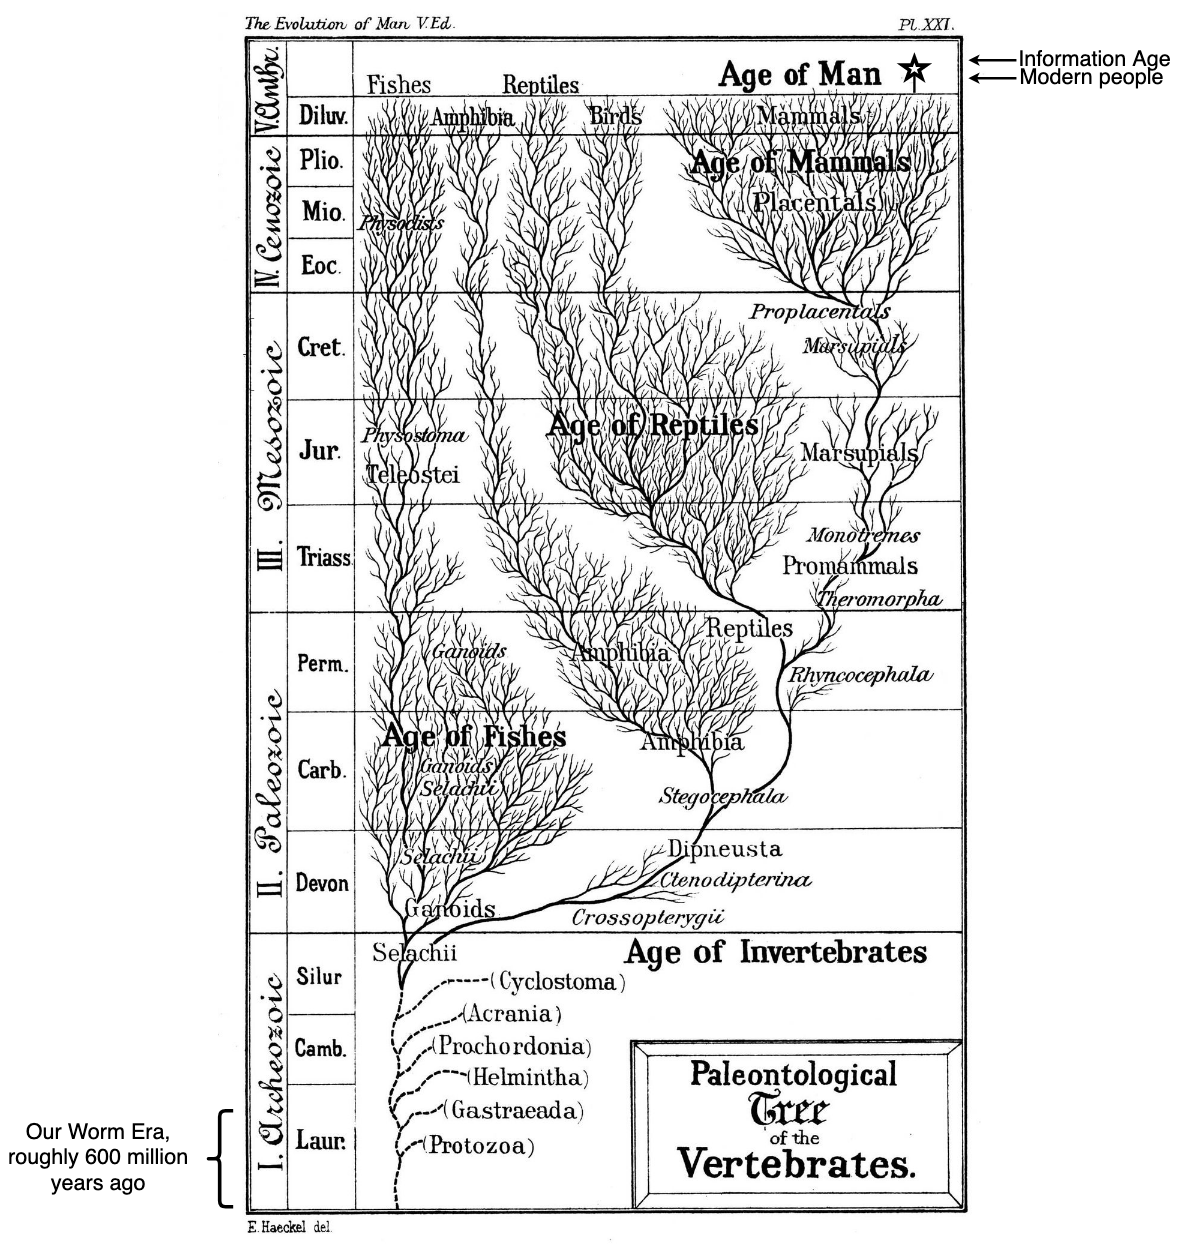
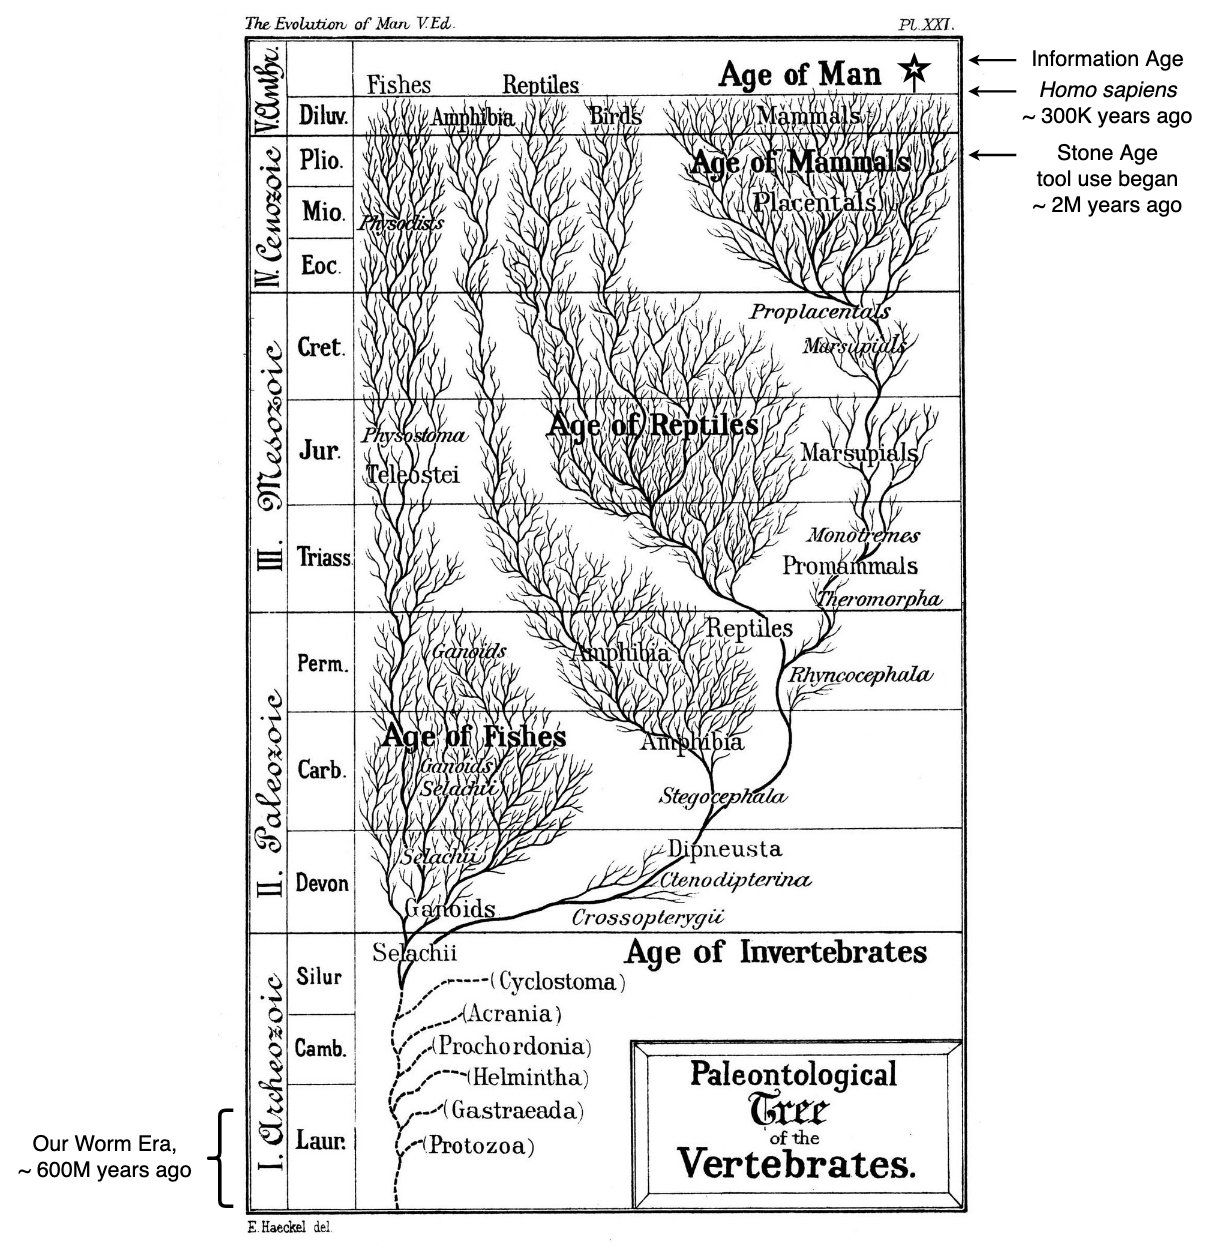
Cleaning

Changed region(s): [[0.0, 0.0, 0.9983, 0.9976]]

diff --git a/_posts/blog/2023-01-27-there-is-no-agi.md b/_posts/blog/2023-01-27-there-is-no-agi.md
@@ -18,7 +18,7 @@ MathJax.Hub.Config({
 </script>
 
 ---
-**Disclaimer**: This post contains my personal thoughts on artificial intelligence (AI) as of January 2023. I reserve the right to update my priors in light of new information as time passes. Anything written here should be taken with a grain of salt.
+**Disclaimer**: This post contains my personal thoughts on artificial intelligence (AI) as of January 2023. I reserve the right to update my priors in light of new information as time passes. What is written here is mostly speculation and should be taken with a grain of salt.
 
 ## Haeckel's Tree
 
@@ -31,9 +31,10 @@ Let's look at where modern humans and machines are on Haeckel's evolutionary tre
 %}
 
 The story here is that at some point, evolution pressured certain animals to grow large brains and walk upright.
-Then, they started to develop and use tools.
+Then, they started to develop and use tools (~2M years ago).
 These tools further expanded their mental and physical faculties, which in turn helped make these creatures even smarter.
 Being smarter meant better tools, which again made them smarter, and eventually they developed the digital computer.
+Something unique about humans---perhaps the combination of our ability to reason about abstract concepts like recursion, large brains, dexterous hands, and a propensity to socialize in large communities---enables us to not only *use* tools to survive but also to vastly *improve* ourselves.
 
 ## There is no such thing as AGI
 
@@ -44,30 +45,31 @@ I argue that there is not, and never will be, such an AGI.
 
 ## Powerful machines augment human intelligence
 
-Rather, I think the situation we are in resembles a slowly evolving symbiosis of increasingly intelligent humans and machines.
-We are constantly making new powerful tools that further empower our own general intelligence---which I think of as *artificially augmented general intelligence* (AAGI for short?).
+I believe this popular AGI fantasy ignores the effect that increasingly powerful technologies will have on humans and the role that humans have to play.
+Rather, the situation we are in moreso resembles an evolving symbiosis of increasingly intelligent machines *and humans*.
+We are constantly making newer, more powerful tools that further empower our own general intelligence---which I call *artificially augmented general intelligence* (AAGI).
 
 For example, today I use a Google Doc to temporarily expand my short-term memory while sitting in on a brainstorming meeting.
 We use satellites to augment our eyes to analyze the Earth's surface and microscopes to peer at things a nanometer long. 
 We use Google Translate to speak to people in different languages, chat bots to help us write code faster, and supercomputers to forecast tomorrow's weather.
 Imagine how an alien from another solar system might react if they were to see us driving a car.
 They might think we have exoskeletons that we can take off and put on at will. 
-We humans, or AAGIs, are constantly finding new ways to augment ourselves with artificial intelligences!
+We humans, or AAGIs, are constantly finding exciting ways to augment ourselves with artificial intelligences!
 
 ## Humans and machines as a single, cyber-physical organism
 
-If we agree that powerful machines can augment our intelligence, is it a stretch to view *homo sapiens* and machines as a *single cyber-physical* organism?
+If we agree that powerful machines augment our intelligence, is it a stretch to say that soon we will see *homo sapiens* and machines as a *single cyber-physical* organism?
 
-Let's imagine the point far along the tree of life where the line between what's human and and what's machine is totally blurred.
+Let's imagine the point far along the tree of life where the line between what's human and and what's machine has blurred completely.
 The AAGI cyber-physical organism that emerges at this point of convergence is likely totally inconceivable to us today.
 It will not resemble AGI in the pop culture sense.
-The truth is that this would take thousands or perhaps millions of years to happen, if it ever happens at all. 
-Evolution hasn't even reacted yet to the invention of the steam engine.
+A quick glance back at the tree of life suggests this might take thousands or perhaps millions of years to happen, if it ever happens at all. 
+Evolution hasn't really reacted yet to the invention of the steam engine.
 It won't happen next year. Or in 10 years. Or 100. 
 
-Others are happy to call an embodied computational learning system with agency, capable of rapidly expanding its repertoire of real world skills, an "AGI". Would this represent a bifurcation of the branch *homo sapiens* in our tree of life---a new branch that has split off from our own? 
-The crux of my perspective is that, in short answer, this is not the case.
-I believe we should not think about such systems outside of the context of their human designers and users.
+Others (including many scientists) are happy to call an embodied computational learning system with agency, capable of rapidly expanding its repertoire of real world skills, an "AGI". Would this represent a new bifurcation of the branch *homo sapiens* in our tree of life---a branch that has split off from our own? 
+The crux of my perspective says that, in short answer, this is not the case.
+I believe we should not think about such tools outside of the context of their human designers and users.
 
 ## Human knowledge in AI research
 I don't think it is a hot take to say that out of the tired symbolists vs. connectionists debate, those arguing for the fusion of both paradigms were always right.
@@ -78,7 +80,7 @@ There is a certain beauty to this cyclical, symbiotic relationship, at least to 
 
 ## What are the implications of all this?
 
-For one, we are already hurtling towards a singularity of a kind.
+For one, we are already hurtling towards a Singularity of a kind.
 {%
     include image.html
     img="/img/AGI/energy.png"
